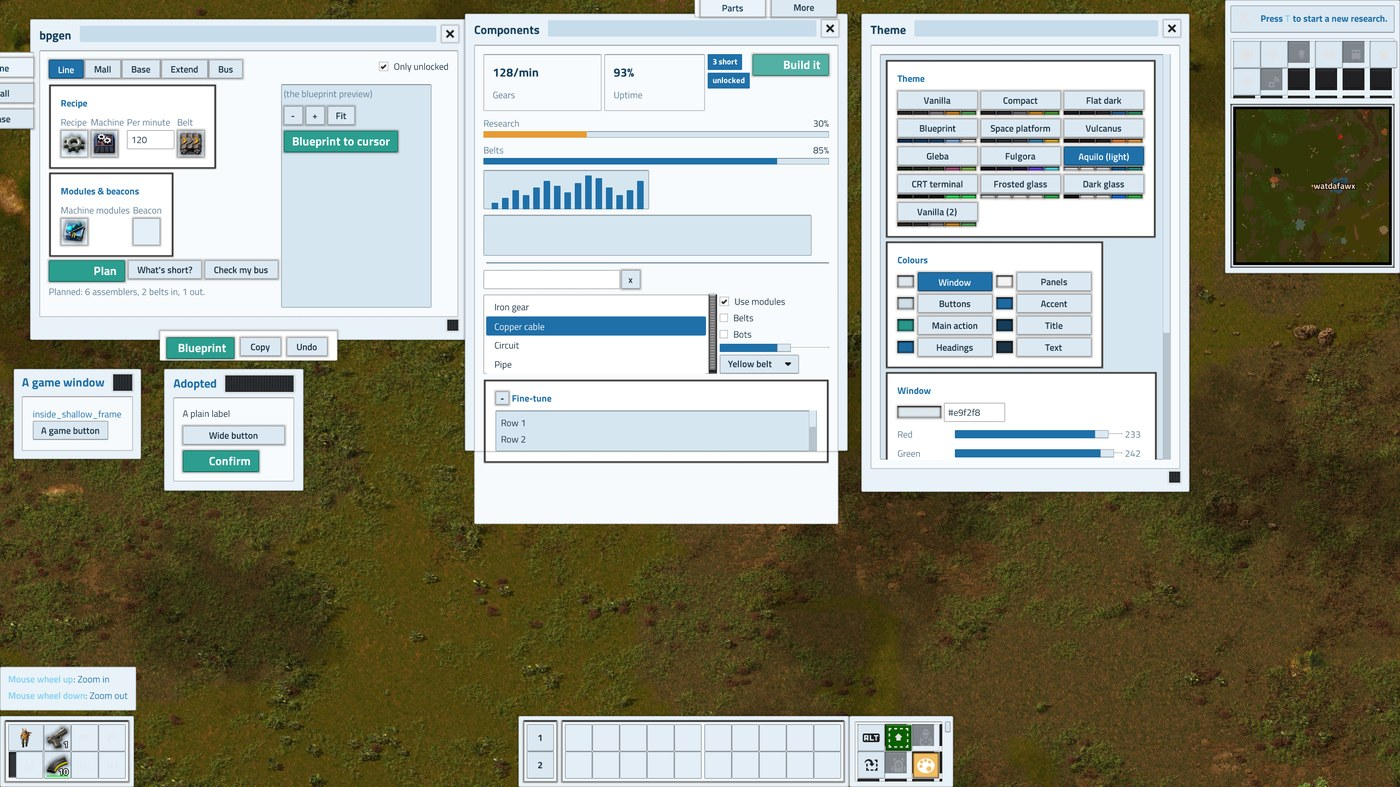
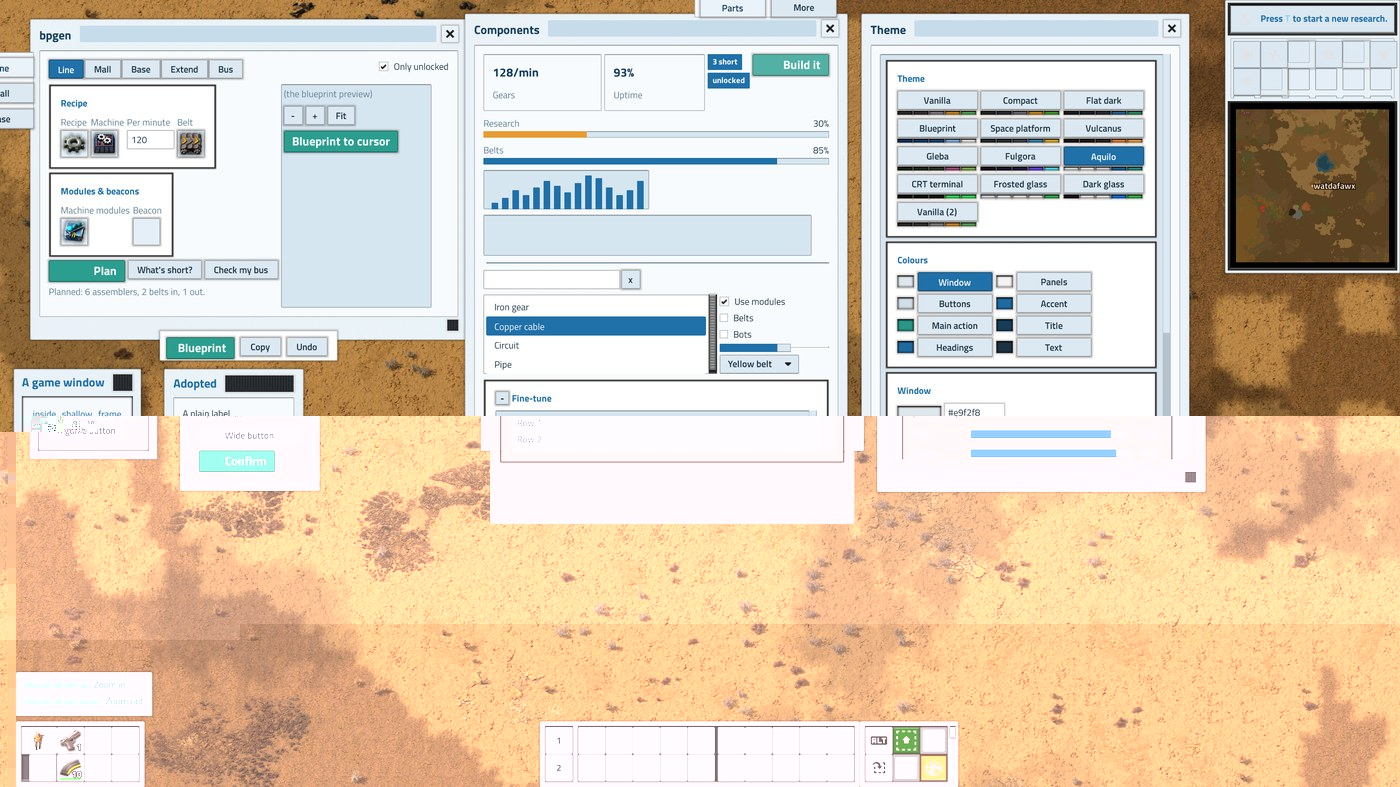
0.16.1: fse-std 0.6.1, the game's menus coloured through and through; release notes; README screenshots

diff --git a/test/run_vanilla_menus.py b/test/run_vanilla_menus.py
@@ -1,0 +1,50 @@
+"""the game's own menus with fse-std's "colour the game's own windows" on, in a real client (--flat: with the startup
+setting "flat game windows" too; --theme <name>, aquilo without): every menu a script can open, shot to test/run/script-output/menus-*.png and
+put together in menus-sheet.png. A look check, no pass/fail. Don't run it while you play."""
+import json, shutil, subprocess, sys, time
+from pathlib import Path
+
+from PIL import Image
+
+NATIVE = Path(__file__).resolve().parents[1]
+from factorio_paths import run_dir  # noqa: E402
+RUN = run_dir(Path(__file__).resolve().parent / "run")
+MODS = RUN / "menus-mods"
+OUT = RUN / "script-output"
+shutil.rmtree(MODS, ignore_errors=True)
+MODS.mkdir(parents=True)
+shutil.copytree(NATIVE / "mods" / "fse-std", MODS / "fse-std")
+if "--flat" in sys.argv:
+    st = MODS / "fse-std" / "settings.lua"
+    st.write_text(st.read_text().replace("default_value = false", "default_value = true"))
+shutil.copytree(NATIVE / "test" / "vanilla-menus", MODS / "vanilla-menus")
+if "--theme" in sys.argv:  # (--theme <name>: another theme than aquilo)
+    c = MODS / "vanilla-menus" / "control.lua"
+    c.write_text(c.read_text().replace('local THEME = "aquilo"', f'local THEME = "{sys.argv[sys.argv.index("--theme") + 1]}"'))
+(MODS / "vanilla-menus" / "info.json").write_text(json.dumps({"name": "vanilla-menus", "version": "0.0.1",
+    "title": "vanilla menus", "author": "mtopfox", "factorio_version": "2.0", "dependencies": ["base", "fse-std"]}))
+names = ["base", "fse-std", "vanilla-menus", "elevated-rails", "quality", "space-age"]
+(MODS / "mod-list.json").write_text(json.dumps({"mods": [{"name": n, "enabled": True} for n in names]}))
+for f in OUT.glob("menus-*"):
+    f.unlink()
+save = RUN / "menus.zip"
+save.unlink(missing_ok=True)
+launch = [str(NATIVE / "dist" / "fse-launcher.exe"), "--config", str(RUN / "config.ini"), "--mod-directory", str(MODS)]
+subprocess.run(launch + ["--create", str(save)], capture_output=True)
+game = subprocess.Popen(launch + ["--load-game", str(save)], stdout=subprocess.DEVNULL, stderr=subprocess.DEVNULL)
+end = time.time() + 240
+while time.time() < end and not (OUT / "menus-done.txt").exists() and game.poll() is None:
+    time.sleep(1)
+time.sleep(2)
+game.kill()
+log = (RUN / "factorio-current.log").read_text(errors="replace").splitlines()
+print("errors:", "\n".join(l for l in log if "Error" in l or "error (handled)" in l)[-1500:] or "none")
+print((OUT / "menus-log.txt").read_text() if (OUT / "menus-log.txt").exists() else "no log")
+shots = sorted(OUT.glob("menus-*.png"))
+if shots:
+    tiles = [Image.open(s).convert("RGB").resize((640, 360)) for s in shots]
+    sheet = Image.new("RGB", (640 * 3, 360 * ((len(tiles) + 2) // 3)))
+    for i, t in enumerate(tiles):
+        sheet.paste(t, ((i % 3) * 640, (i // 3) * 360))
+    sheet.save(OUT / "menus-sheet.png")
+    print("sheet:", OUT / "menus-sheet.png", [s.stem for s in shots])

diff --git a/README.md b/README.md
@@ -483,6 +483,7 @@ saves or mods. They find the game like the launcher does (`FACTORIO_EXE` to over
 | `run_theme_gui.py` | `fse-std` themes in a real game window: every theme shot, a live colour edit read back from the engine, the game's own windows coloured and given back |
 | `run_mp.py --mod test/theme-mp --expect "themes done" --no-kick` | fse-std's themes in multiplayer: every theme feature on a server and a client, the same state on both, no desync |
 | `run_upgrade.py` | a save made with fse-std from before themes, loaded with this one: the existing player gets the themes |
+| `run_vanilla_menus.py [--flat] [--theme <name>]` | the game's own menus (inventory, chests, machines, production, trains, blueprint library, map view, ...) with "colour the game's own windows" on, shot into one sheet to look over |
 | `run_menu.py` | the **FSE hub** button in the main and pause menus: screenshots, clicks (posted to the game window), the panel opens |
 | `run_hub.py` | the menu overlay, the hub and its tabs in a real game window (an install from a local mod index too) |
 | `run_catalog.py` | the mod catalog's Python half (`fse_tools.catalog`), without the game |

diff --git a/docs/release-v0.16.1.md b/docs/release-v0.16.1.md
@@ -1,3 +1,11 @@
 ## FSE 0.16.1
 
-fse-std 0.6.1 (bundled): `theme.adopt` knows more of the game's and flib's styles (subheader and heading labels, list box panes and rows, flib's title bar drag handle), so mod windows follow light themes fully. Smart Research Queue 1.1.7 and EZ Actions 0.2.5 (in the mod catalog) fix their theming gaps.
+fse-std 0.6.1 (bundled):
+- "Colour the game's own windows" reaches scroll panes, tabs and slots too: inventories, crafting, production,
+  trains, the quick bar. Every game menu a script can open was checked one by one (test/run_vanilla_menus.py).
+- Flat game windows: slot grids keep their tiling, frames open on one side keep it open, the map view stays
+  see-through; the game's text follows the theme only here (on the game's own textures it would go unreadable).
+- `theme.adopt` knows more styles (subheader and heading labels, list panes and rows, flib's title bar), so mod
+  windows follow light themes fully; the theme window fits the monospace themes.
+
+Smart Research Queue 1.1.7 and EZ Actions 0.2.5 are in the mod catalog.
